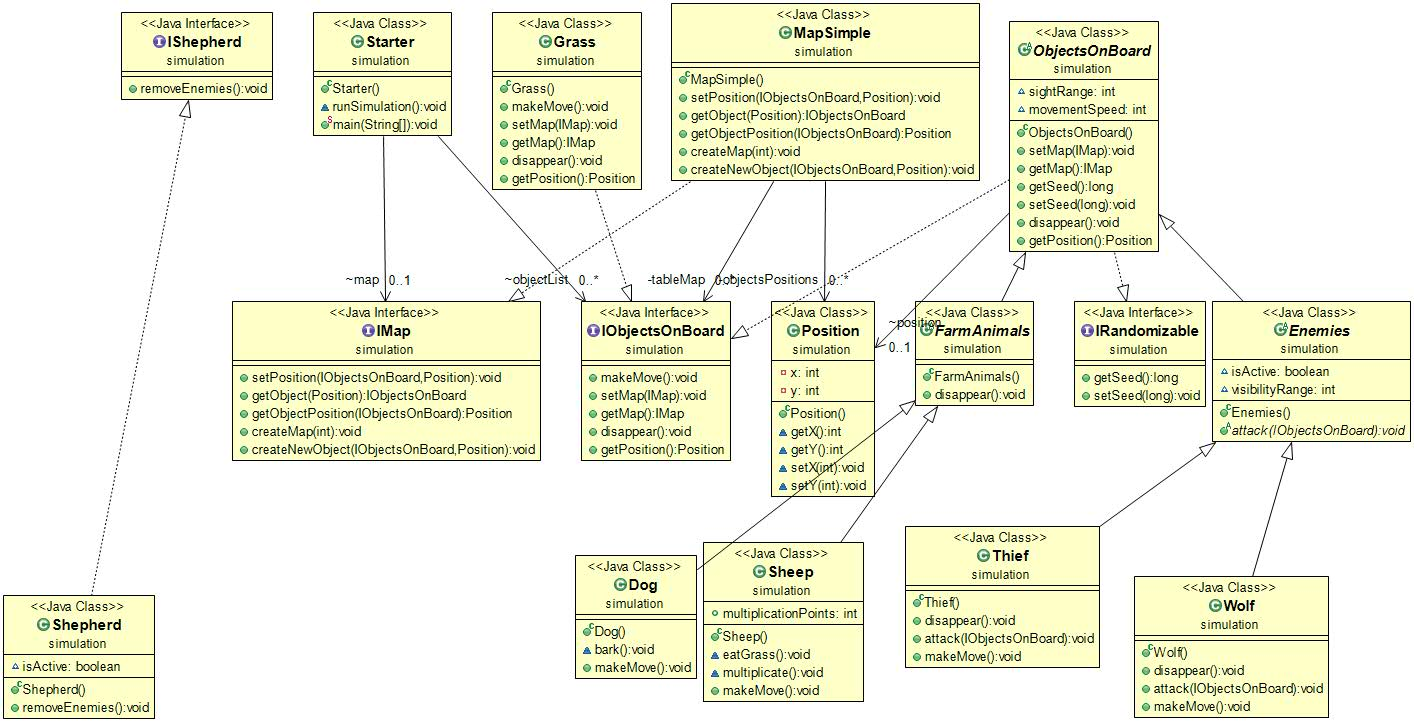
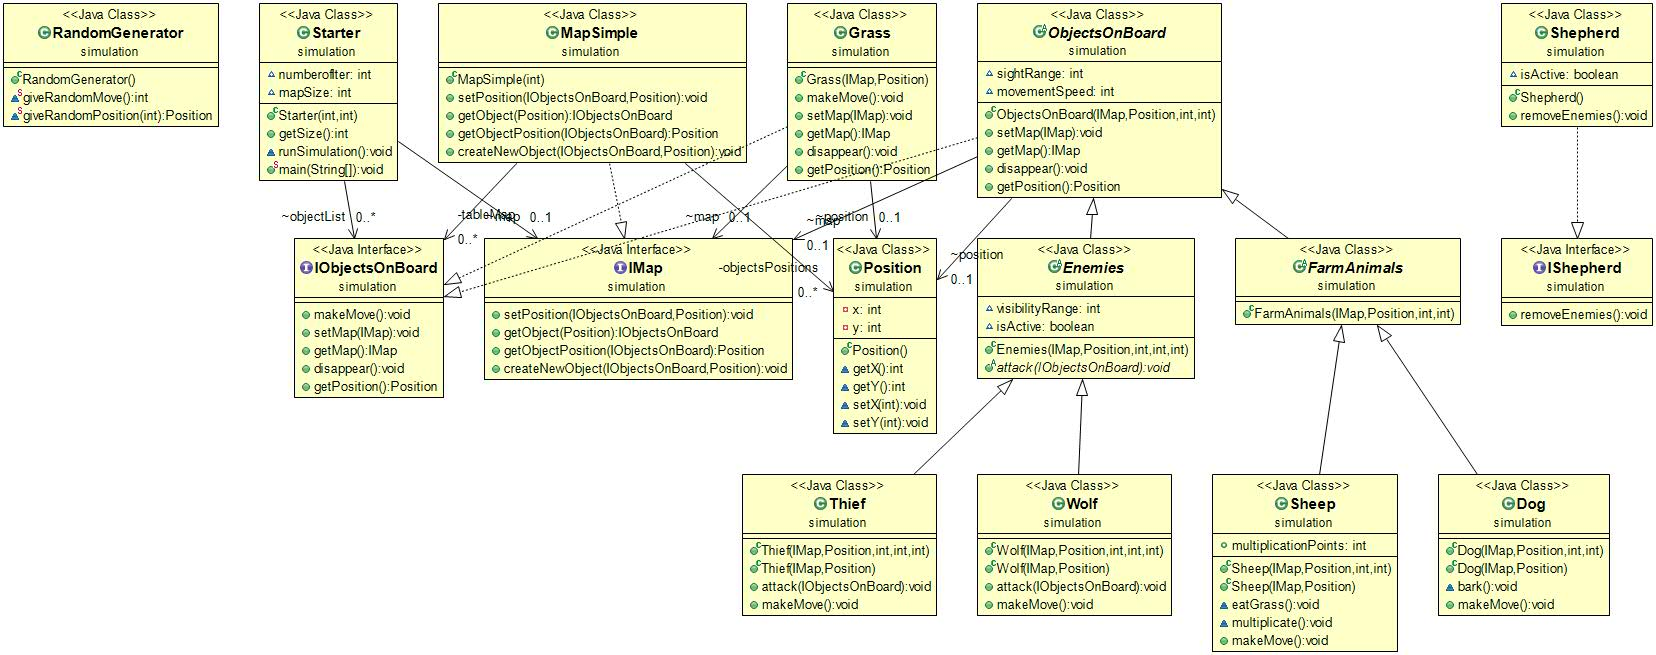
makeMove u Owcy, udoskonalona MapSimple

diff --git a/ProjectSimulation/src/main/java/simulation/MapSimple.java b/ProjectSimulation/src/main/java/simulation/MapSimple.java
@@ -7,13 +7,17 @@ import java.util.HashMap;
 
 public class MapSimple implements IMap {
 	
+	
+		
 	public MapSimple(int size) {
 		tableMap = new IObjectsOnBoard[size][size];
 		objectsPositions= new HashMap<>();
+		this.size=size;
 	}
 	
 	private IObjectsOnBoard[][] tableMap;
 	private Map<IObjectsOnBoard, Position> objectsPositions;
+	int size;
 	
 	@Override
 	public void setPosition(IObjectsOnBoard object, Position position) {
@@ -55,6 +59,29 @@ public class MapSimple implements IMap {
 	public void createNewObject(IObjectsOnBoard object, Position position) {
 		// TODO Auto-generated method stub
 		
+	}
+	
+	public boolean isTheMoveProperly(Position position, int move) { ////Metoda sprawdza, czy nie wyjezdzamy za granice planszy
+		int x = position.getX();
+		int y = position.getY();
+		
+		if(move==1) 
+		{
+			if(x==0) return false;
+		}
+		if(move==2)
+		{
+			if(y==size) return false;
+		}
+		if(move==3)
+		{
+			if(x==size) return false;
+		}
+		if(move==4)
+		{
+			if(y==0) return false;
+		}
+		return true;
 	}
 }
 

diff --git a/ProjectSimulation/src/main/java/simulation/IMap.java b/ProjectSimulation/src/main/java/simulation/IMap.java
@@ -10,4 +10,6 @@ public interface IMap {
 	Position getObjectPosition(IObjectsOnBoard object);
 	
 	void createNewObject(IObjectsOnBoard object, Position position);
+	
+	boolean isTheMoveProperly(Position position, int move);
 }

diff --git a/ProjectSimulation/src/main/java/simulation/IObjectsOnBoard.java b/ProjectSimulation/src/main/java/simulation/IObjectsOnBoard.java
@@ -7,4 +7,5 @@ public interface IObjectsOnBoard {
 	IMap getMap();
 	void disappear();
 	Position getPosition();
+	
 }
